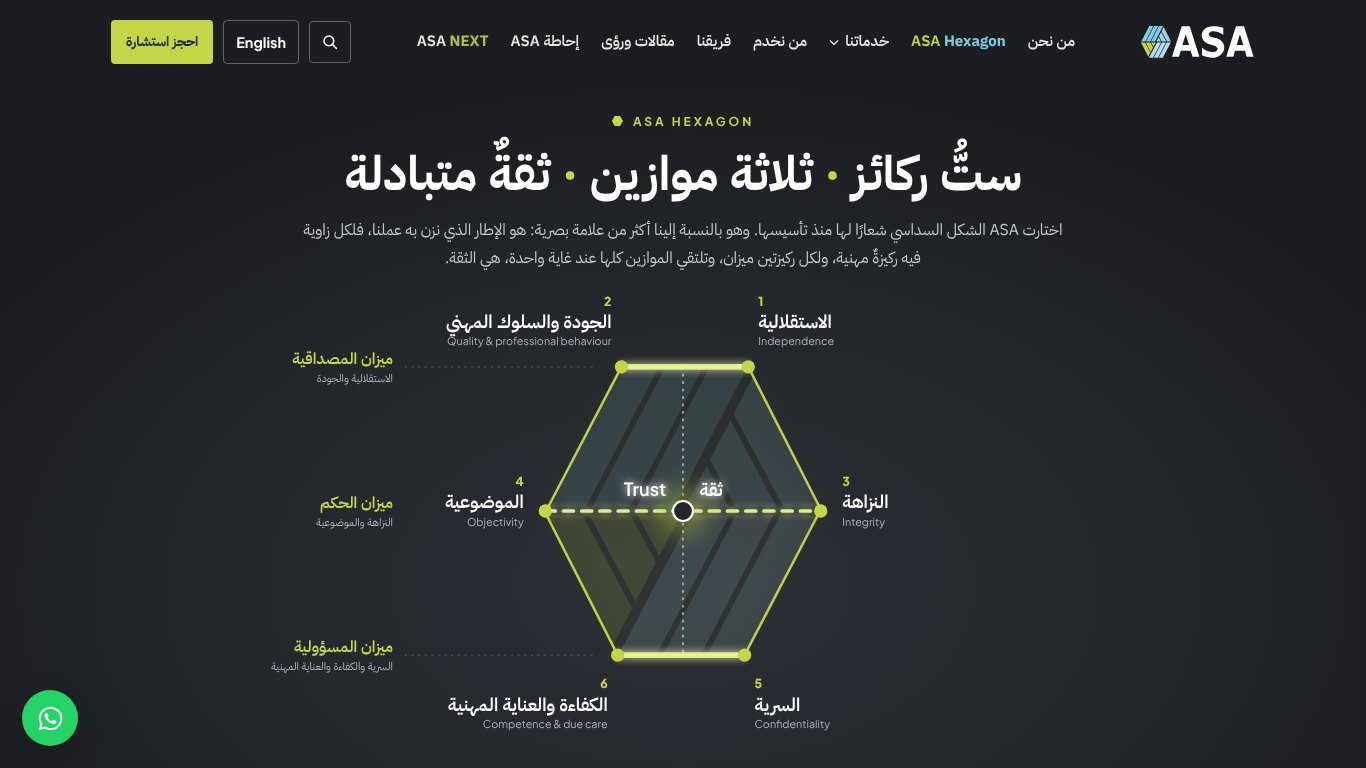
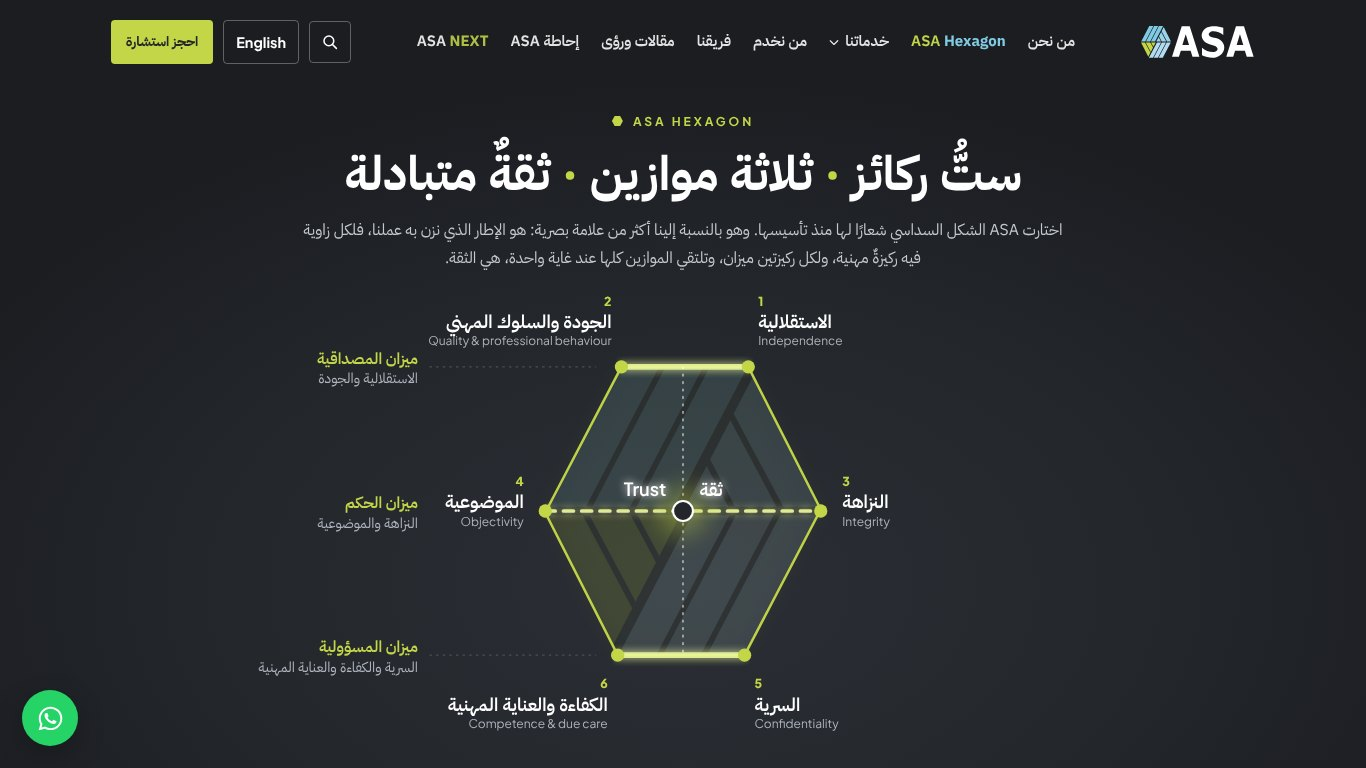
ASA Hexagon (Arabic page): larger English pillar names and balance pairs in the diagram
At 1366x768 the English name under each pillar is now 12px and the pillars under each
balance name 14px. The balance labels move slightly inwards so they stay inside the
drawing. Arabic Open Graph image redrawn.

Claude-Session: https://claude.ai/code/session_018uDrFG6Xr5XNVMMLmiZuNU

diff --git a/public/assets/css/site.css b/public/assets/css/site.css
@@ -849,6 +849,9 @@ html[lang="ar"] .hxg-hero .lead{line-height:1.8}
 html[lang="ar"] .hxd .hxd-nm,html[lang="ar"] .hxd .hxd-bn,html[lang="ar"] .hxd .hxd-bp,html[lang="ar"] .hxd .hxd-tr{font-family:var(--f-ar)}
 html[lang="ar"] .hxd .hxd-nm{font-size:22px}
 html[lang="ar"] .hxd .hxd-tr-lat{font-family:var(--f-en)}
+/* Arabic page: the English pillar names and the balance pairs stay readable (about 12px / 14px at 1366px wide) */
+html[lang="ar"] .hxd-wide .hxd-en{font-size:14.5px}
+html[lang="ar"] .hxd-wide .hxd-bp{font-size:17px}
 .hxd-narrow .hxd-num{font-size:18px}.hxd-narrow .hxd-nm,html[lang="ar"] .hxd-narrow .hxd-nm{font-size:25px}.hxd-narrow .hxd-en{font-size:15px}.hxd-narrow .hxd-tr{font-size:24px}
 .hxd-v,.hxd-hit{cursor:pointer}
 .hxd.alive .hxd-v,.hxd.alive .hxd-bal,.hxd.alive .hxd-beams line,.hxd.alive .hxd-stripes{transition:opacity .3s}

diff --git a/src/hexagon.py b/src/hexagon.py
@@ -75,7 +75,7 @@ def stripes_order():
 # balance label column. Names too long for their place wrap onto two lines (WRAP); the viewBoxes hold every label.
 LAYOUT = {
     'wide': dict(box={'en': '-590 -277 1180 538', 'ar': '-525 -280 1050 556'}, s=1,
-                 step_nm=27, step_nm2=25, step_en=21, bal_x=350),
+                 step_nm=27, step_nm2=25, step_en=21, bal_x={'en': 350, 'ar': 320}),
     'narrow': dict(box={'en': '-365 -258 730 523', 'ar': '-365 -252 730 506'}, s=.85,
                    step_nm=30, step_nm2=28, step_en=23, bal_x=None),
 }
@@ -186,7 +186,8 @@ def diagram(L, variant):
     # balance names and their two pillars, outside the hexagon (Arabic: on the left; English: on the right)
     if lay['bal_x']:
         sgn = -1 if L == 'ar' else 1
-        bxl, anc = sgn * lay['bal_x'], 'end' if L == 'ar' else 'start'
+        bxl, anc = sgn * lay['bal_x'][L], 'end' if L == 'ar' else 'start'
+        dy = 20 if L == 'ar' else 18   # the Arabic pillar pairs are set larger (site.css)
         o.append('<g class="hxd-bals">')
         for i, (a, b, _) in enumerate(BALANCES):
             y = G[a][1]
@@ -195,7 +196,7 @@ def diagram(L, variant):
             if y != 0:   # dotted leader from the side's end to the label
                 x_end = max(abs(G[a][0]), abs(G[b][0])) + 26
                 lead = f'<line x1="{bxl - sgn * 14:g}" y1="{y:g}" x2="{sgn * x_end:g}" y2="{y:g}" stroke="#4A4F57" stroke-width="1.5" stroke-dasharray="3 5"/>'
-            pair = ''.join(f'<text class="hxd-bp" x="{bxl:g}" y="{y + 18 + 17 * j:g}" text-anchor="{anc}">{E(t)}</text>'
+            pair = ''.join(f'<text class="hxd-bp" x="{bxl:g}" y="{y + dy + 17 * j:g}" text-anchor="{anc}">{E(t)}</text>'
                            for j, t in enumerate(WRAP[variant].get(bal['pair'], [bal['pair']])))
             o.append(f'<g class="hxd-bal" data-b="{i}">{lead}<text class="hxd-bn" x="{bxl:g}" y="{y - 4:g}" text-anchor="{anc}">{E(bal["name"])}</text>{pair}</g>')
         o.append('</g>')
